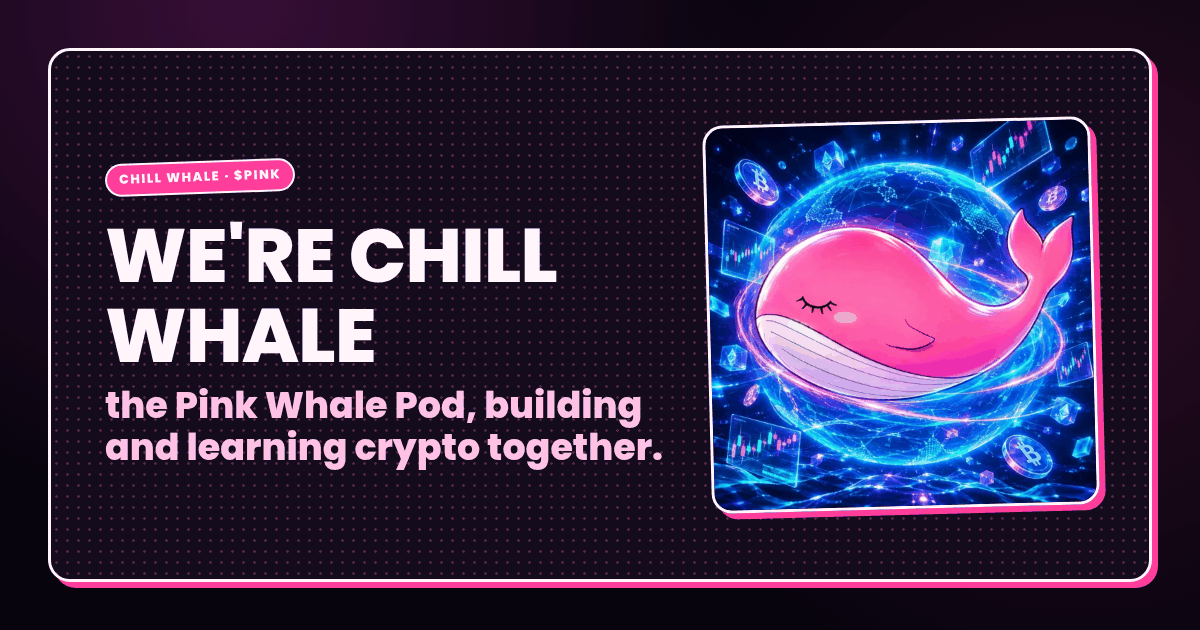
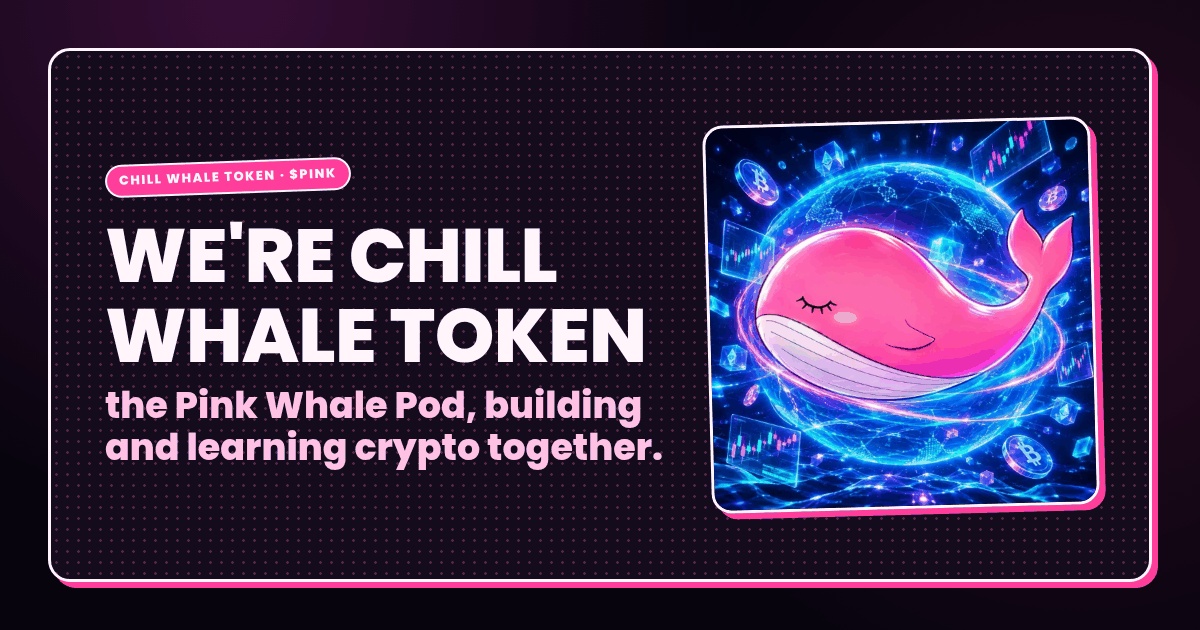
Name Chill Whale Token, $PINK as ticker only; Charity Token badge; drop 'official' (t58u)

diff --git a/index.html b/index.html
@@ -3,22 +3,22 @@
 <head>
 <meta charset="utf-8">
 <meta name="viewport" content="width=device-width, initial-scale=1">
-<title>Chill Whale — building and learning crypto together</title>
-<meta name="description" content="Chill Whale and the Pink Whale Pod, a friendly crypto community: TikTok, live streams, Telegram, a Discord classroom and the Pink Pod app. Building and learning together.">
+<title>Chill Whale Token — building and learning crypto together</title>
+<meta name="description" content="Chill Whale Token and the Pink Whale Pod, a friendly crypto community: TikTok, live streams, Telegram, a Discord classroom and the Pink Pod app. Building and learning together.">
 <meta name="theme-color" content="#07040e">
 <link rel="canonical" href="https://pinkwhalepod.app/">
 <meta property="og:type" content="website">
-<meta property="og:site_name" content="Chill Whale">
-<meta property="og:title" content="Chill Whale — building and learning crypto together">
-<meta property="og:description" content="Chill Whale, the Pink Whale Pod, and a lot of people learning crypto out loud. Free to explore.">
+<meta property="og:site_name" content="Chill Whale Token">
+<meta property="og:title" content="Chill Whale Token — building and learning crypto together">
+<meta property="og:description" content="Chill Whale Token, the Pink Whale Pod, and a lot of people learning crypto out loud. Free to explore.">
 <meta property="og:url" content="https://pinkwhalepod.app/">
 <meta property="og:image" content="https://pinkwhalepod.app/img/og.png">
 <meta property="og:image:width" content="1200">
 <meta property="og:image:height" content="630">
-<meta property="og:image:alt" content="Chill Whale artwork beside the words: building and learning crypto together.">
+<meta property="og:image:alt" content="Chill Whale Token artwork beside the words: building and learning crypto together.">
 <meta name="twitter:card" content="summary_large_image">
-<meta name="twitter:title" content="Chill Whale — building and learning crypto together">
-<meta name="twitter:description" content="Chill Whale, the Pink Whale Pod, and a lot of people learning crypto out loud. Free to explore.">
+<meta name="twitter:title" content="Chill Whale Token — building and learning crypto together">
+<meta name="twitter:description" content="Chill Whale Token, the Pink Whale Pod, and a lot of people learning crypto out loud. Free to explore.">
 <meta name="twitter:image" content="https://pinkwhalepod.app/img/og.png">
 <link rel="icon" href="img/favicon.png" type="image/png" sizes="64x64">
 <link rel="apple-touch-icon" href="img/apple-touch-icon.png">
@@ -29,9 +29,9 @@
 
 <header class="hero panel-wrap">
   <div class="hero-panel">
-    <span class="tag">Chill Whale · $PINK</span>
-    <img class="hero-whale" src="img/pink-whale.webp" alt="Chill Whale artwork" width="1024" height="1024">
-    <h1>We're Chill Whale: <span class="hl">the Pink Whale Pod, building and learning crypto together.</span></h1>
+    <span class="tag">Chill Whale Token · $PINK</span>
+    <img class="hero-whale" src="img/pink-whale.webp" alt="Chill Whale Token artwork" width="1024" height="1024">
+    <h1>We're Chill Whale Token: <span class="hl">the Pink Whale Pod, building and learning crypto together.</span></h1>
     <a class="scroll-cue" href="#story">Our story ↓</a>
   </div>
 
@@ -82,15 +82,15 @@
 <section id="bonding" class="section bonding">
   <div class="pow">
     <p class="steps"><span>Launched on Pump.fun</span><span>Filled the bonding curve</span><span>Moved to PumpSwap</span><span>Liquidity locked forever</span></p>
-    <p class="big">That's the moment PINK stopped being just a meme and became infrastructure.</p>
+    <p class="big">That's the moment Chill Whale Token stopped being just a meme and became infrastructure.</p>
     <p class="explain">The bonding curve is Pump.fun's starter price ramp. When it fills, the coin graduates to a real trading pool, and the pool's LP tokens (the keys to its liquidity) are burned, so nobody can pull that liquidity out.</p>
   </div>
 </section>
 
 <section id="built" class="section">
   <h2><span class="kicker">02</span> What We've Built</h2>
-  <p class="lede"><b>Pink Pod.</b> Free to explore, no wallet needed. PINK holders get deeper access.</p>
-  <p class="note">Heads up: the app hasn't officially launched yet. We're building in public, so you'll see it grow.</p>
+  <p class="lede"><b>Pink Pod.</b> Free to explore, no wallet needed. Chill Whale Token holders get deeper access.</p>
+  <p class="note">Heads up: the app hasn't launched yet. We're building in public, so you'll see it grow.</p>
   <ul class="features">
     <li><b>Learning</b> lessons in plain English</li>
     <li><b>Rankings</b> community boards</li>
@@ -116,9 +116,9 @@
   <h2><span class="kicker">03</span> What We're Building</h2>
   <p class="lede">Where we're heading. Direction, not promises.</p>
   <div class="cards">
-    <article class="card"><h3>PINK swaps in the app</h3><p>In-app PINK swaps are planned as part of Pink Pod's market intelligence, education and analytics stack.</p></article>
+    <article class="card"><h3>$PINK swaps in the app</h3><p>In-app $PINK swaps are planned as part of Pink Pod's market intelligence, education and analytics stack.</p></article>
     <article class="card"><h3>The Telegram game</h3><p>Tap the whale, collect daily points, build streaks, climb the monthly leaderboard and unlock community rewards.</p></article>
-    <article class="card"><h3>Stronger liquidity</h3><p>We're exploring ways to add liquidity (the pool of tokens that keeps trading smooth), beyond the 50 million PINK already locked on-chain for 365 days (StakePoint lock #1000, unlocks Nov 23 2027).</p></article>
+    <article class="card"><h3>Stronger liquidity</h3><p>We're exploring ways to add liquidity (the pool of tokens that keeps trading smooth), beyond the 50 million $PINK already locked on-chain for 365 days (StakePoint lock #1000, unlocks Nov 23 2027).</p></article>
   </div>
 </section>
 
@@ -138,15 +138,16 @@
       <h3>The App</h3>
       <p>Explore free. No wallet needed.</p>
       <a class="btn" href="https://t.me/PinkWhaleCommunity/4947" target="_blank" rel="noopener">Open Pink Pod</a>
-      <p class="note">Pink Pod hasn't officially launched yet. We're building it in public.</p>
+      <p class="note">Pink Pod hasn't launched yet. We're building it in public.</p>
     </div>
     <div class="block charity">
+      <span class="badge"><svg viewBox="0 0 24 24" width="16" height="16" aria-hidden="true"><path fill="currentColor" d="M12 21s-7.5-4.6-9.6-9.2C.9 8.4 3 4.5 6.7 4.5c2.1 0 3.6 1.1 5.3 3 1.7-1.9 3.2-3 5.3-3 3.7 0 5.8 3.9 4.3 7.3C19.5 16.4 12 21 12 21z"/></svg>Charity Token</span>
       <h3>Giving back</h3>
-      <p class="charity-lead">Charity has been part of PINK from day one.</p>
+      <p class="charity-lead">Charity has been part of Chill Whale Token from day one.</p>
       <ul class="charity-list">
         <li>Chill kicked it off with his own $75 donation.</li>
         <li>Pump.fun releases a share of the token's fees to charity, about $70 so far.</li>
-        <li>PINK doesn't send that money itself; Pump.fun handles those releases.</li>
+        <li>Chill Whale Token doesn't send that money itself; Pump.fun handles those releases.</li>
         <li>We're not partnered with or endorsed by any charity; these were community acts of goodwill.</li>
       </ul>
     </div>
@@ -157,12 +158,12 @@
         <li>Verify your identity: they ask for a photo ID, and it's quick.</li>
         <li>Deposit Australian dollars or crypto.</li>
         <li>Open the wallet section and switch to Solana.</li>
-        <li>Paste the PINK contract address.</li>
+        <li>Paste the $PINK contract address.</li>
         <li>Enter how much you want and confirm.</li>
       </ol>
     </div>
     <div class="block">
-      <h3>Buy PINK</h3>
+      <h3>Buy $PINK</h3>
       <p>Tap Coinbase or Binance, open the wallet, paste our contract address, buy $PINK.</p>
       <div class="buy-chips">
         <a class="buy-chip" href="https://coinbase.com/join/SHBXGXV" target="_blank" rel="noopener">Coinbase</a>

diff --git a/styles.css b/styles.css
@@ -128,3 +128,4 @@ body{background-attachment:fixed}
 .charity-list li{display:flex;gap:12px;align-items:flex-start;color:var(--cream);font-size:1.02rem;line-height:1.4}
 .charity-list li::before{content:"♥";flex:0 0 28px;height:28px;display:grid;place-items:center;border-radius:50%;background:#c81f7f;color:var(--cream);font-size:.85rem;border:2px solid var(--cream)}
 @media (min-width:760px){.charity{grid-column:1/-1}}
+.badge{display:inline-flex;align-items:center;gap:6px;margin-bottom:10px;padding:6px 12px;border-radius:999px;background:#c81f7f;color:var(--cream);border:2px solid var(--cream);font:800 .85rem/1 var(--display);text-transform:uppercase;letter-spacing:.08em;box-shadow:3px 3px 0 var(--hot);transform:rotate(-2deg)}

diff --git a/README.md b/README.md
@@ -1,6 +1,6 @@
 # pinkwhale-site
 
-Single-page site for Chill Whale ($PINK) and the Pink Whale Pod community (target domain: pinkwhalepod.app).
+Single-page site for Chill Whale Token ($PINK) and the Pink Whale Pod community (target domain: pinkwhalepod.app).
 Static HTML + CSS, no JavaScript, no build step, no trackers, self-hosted fonts.
 
 - `index.html`, `styles.css` — the page
